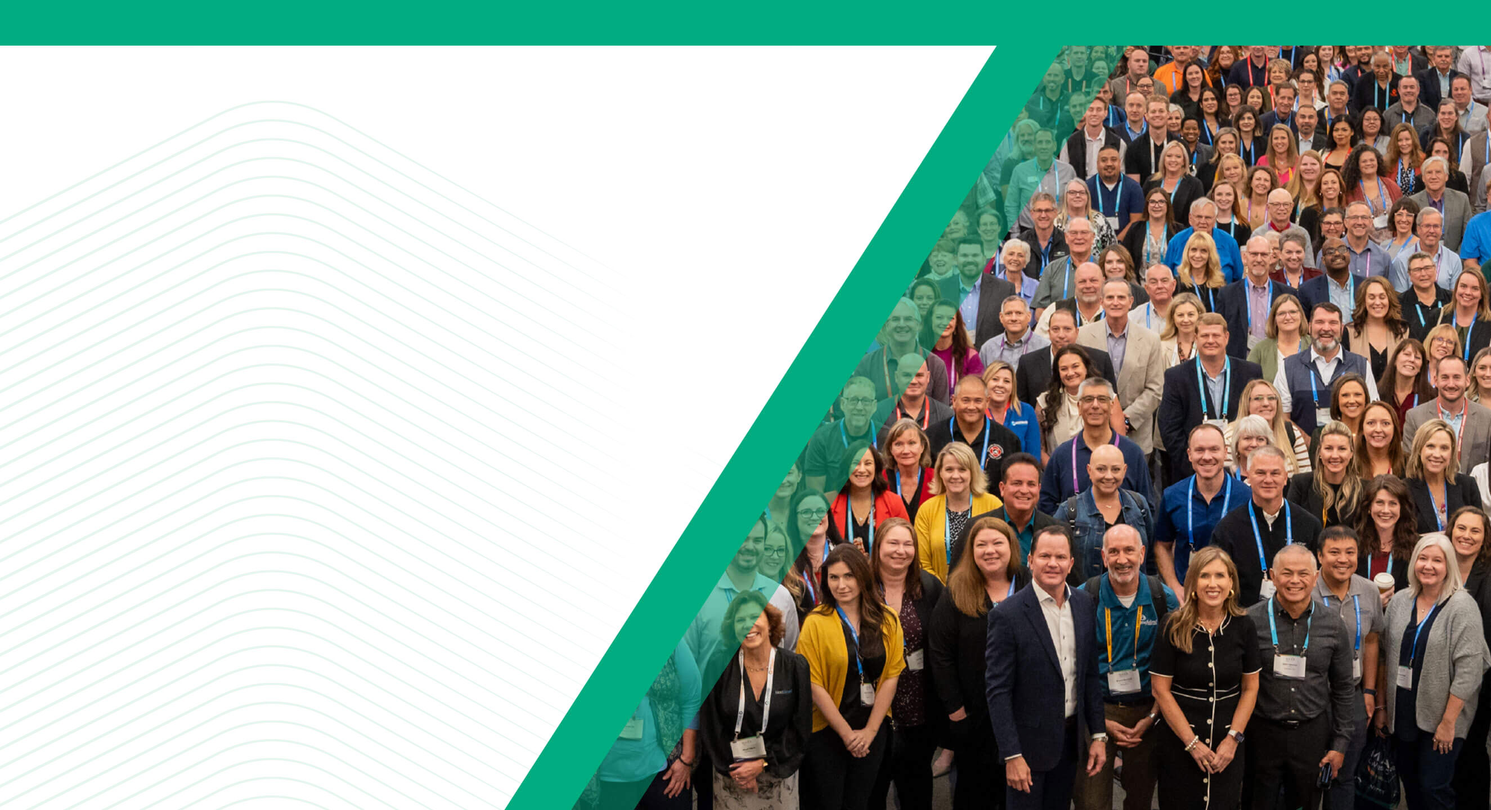
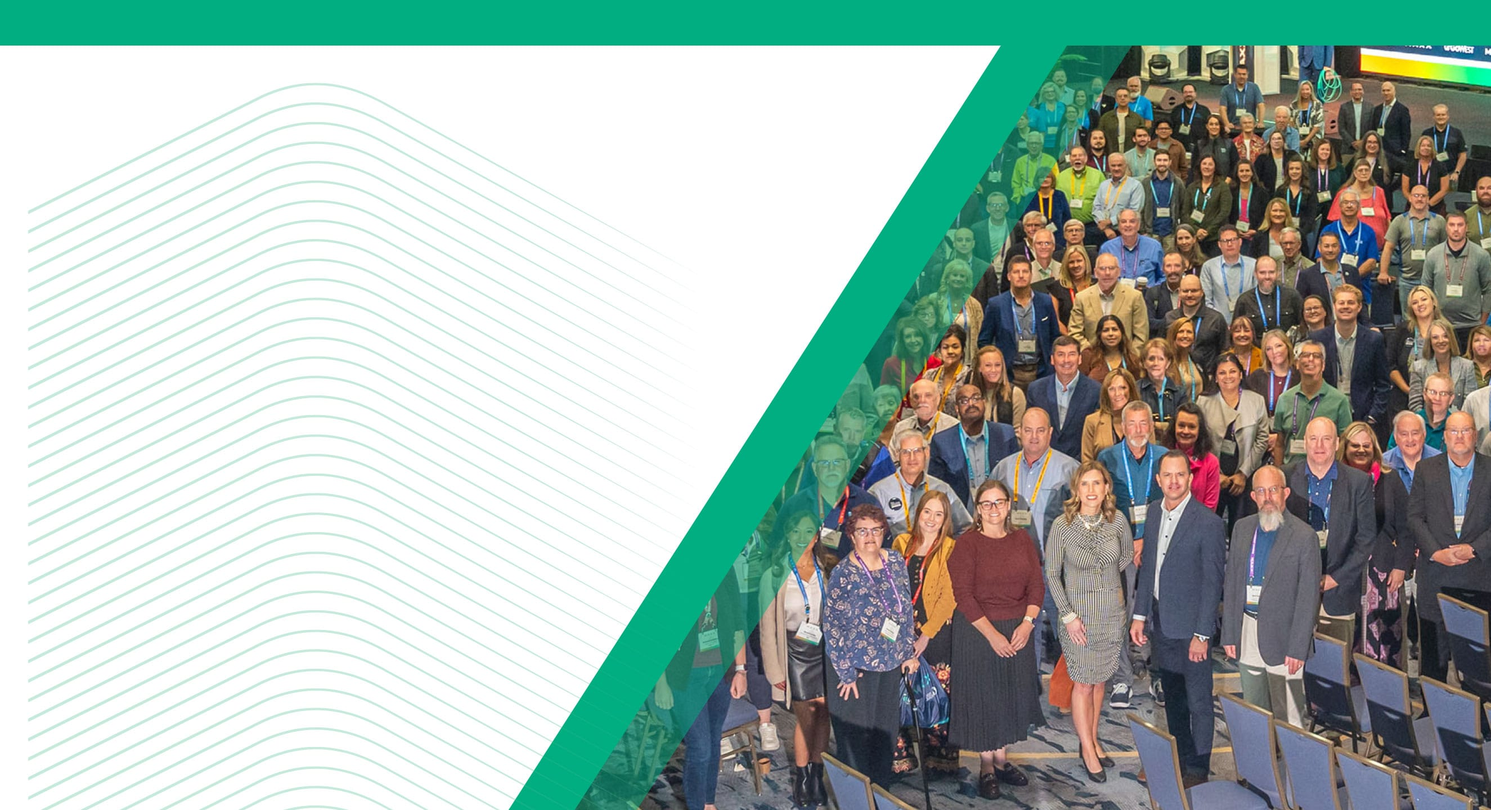
Swap grassroots background.

diff --git a/css/src/main.scss b/css/src/main.scss
@@ -523,12 +523,12 @@ section.advocacy-state {
 
 // grassroots advocacy
 section.advocacy-grassroots {
-	background: url(../img/bg-advocacy-grassroots.jpg?v=1) left center no-repeat;
+	background: url(../img/bg-advocacy-grassroots.jpg?v=2) left center no-repeat;
 	background-size: cover;
 	padding: 20px 20px 200px 20px;
 
 	@include respond-to( $bp-l ) {
-		background: url(../img/bg-advocacy-grassroots.jpg?v=1) center center center no-repeat;
+		background: url(../img/bg-advocacy-grassroots.jpg?v=2) center center center no-repeat;
 		background-size: cover;
 		padding: 20px 20px 300px 20px;
 	}
